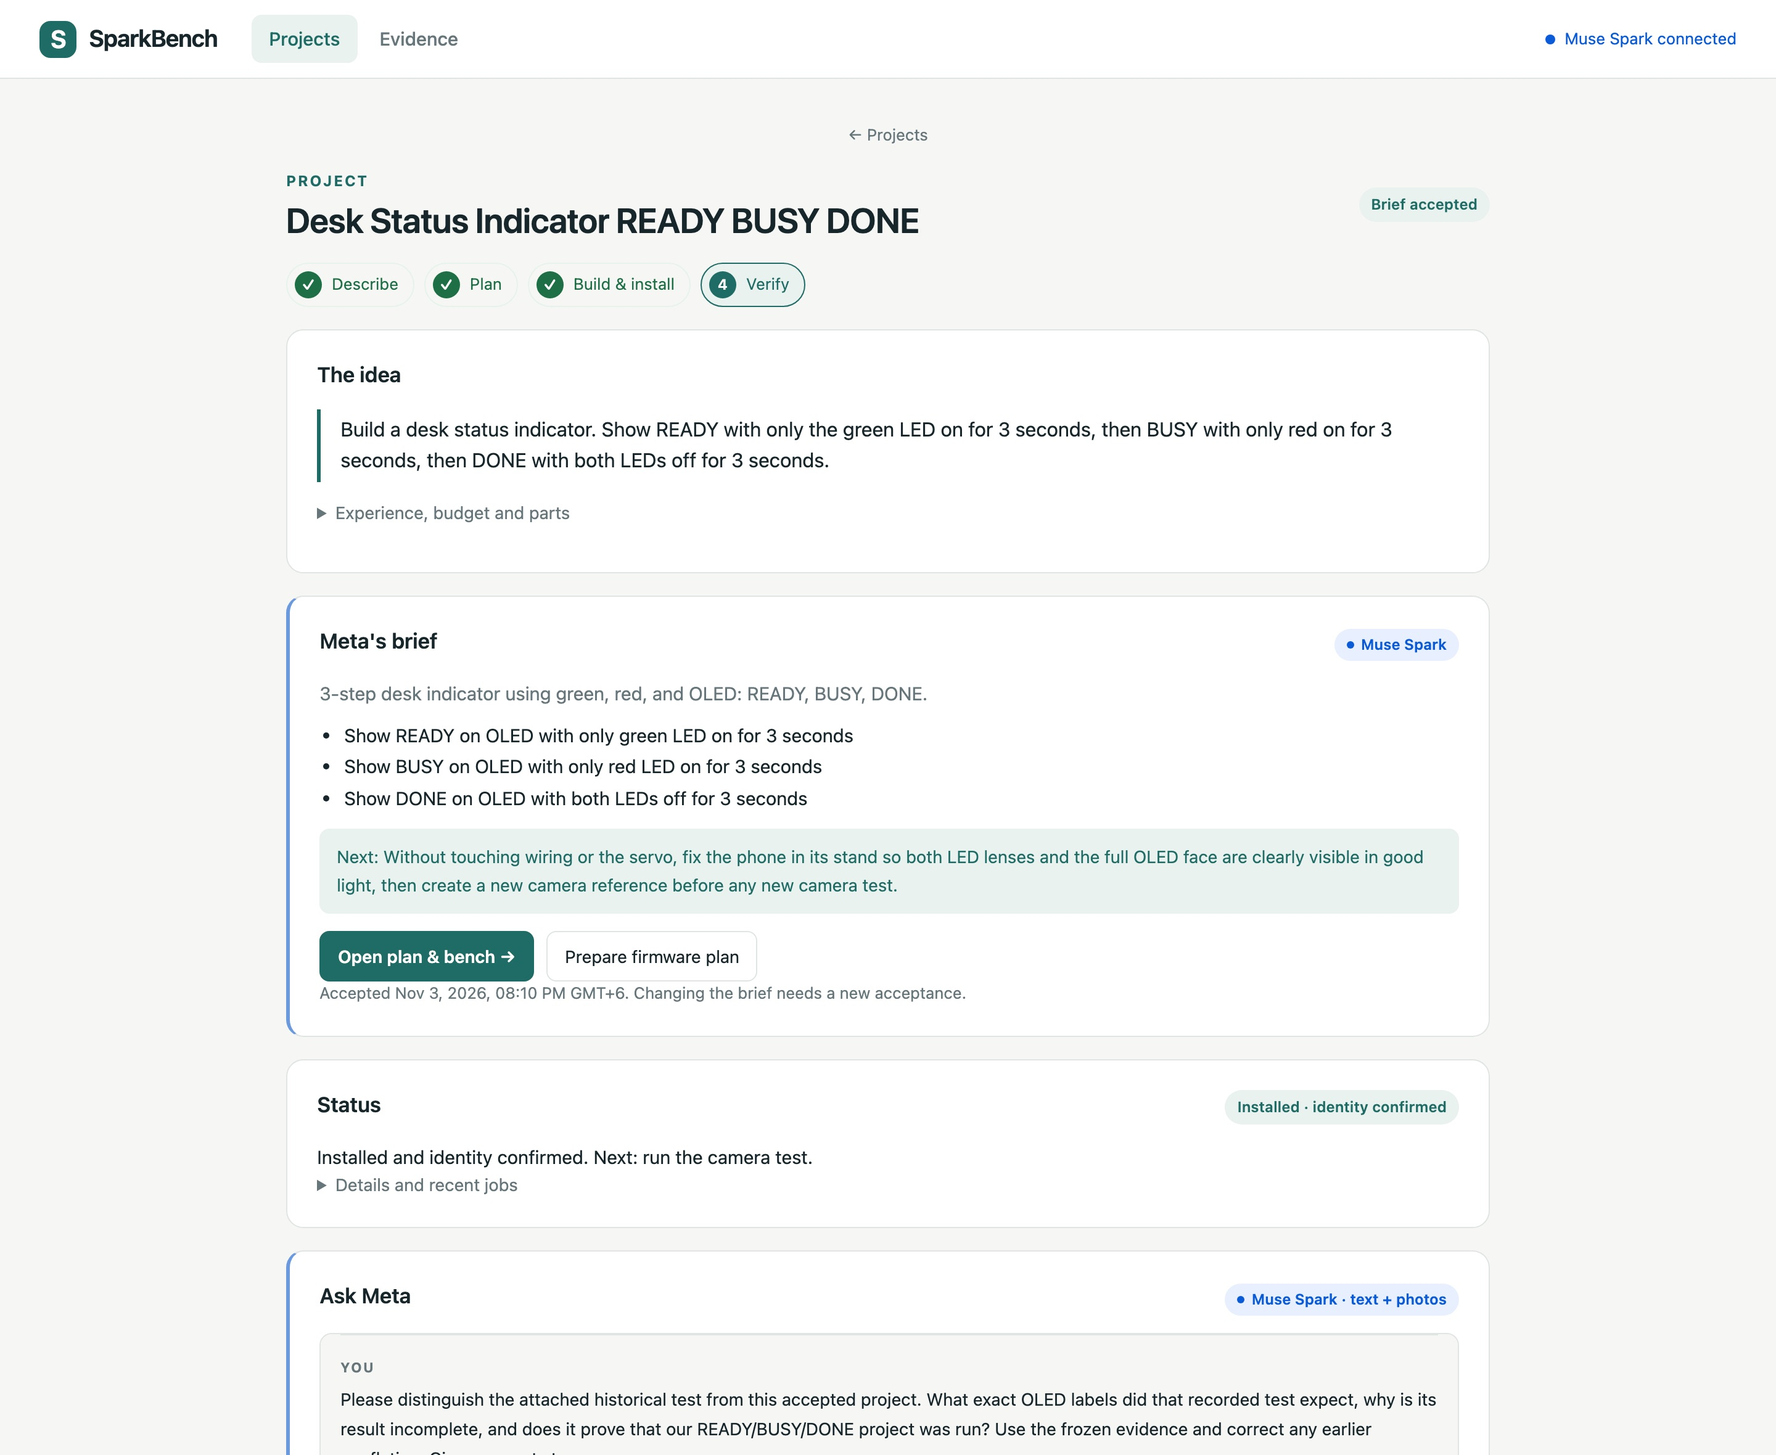
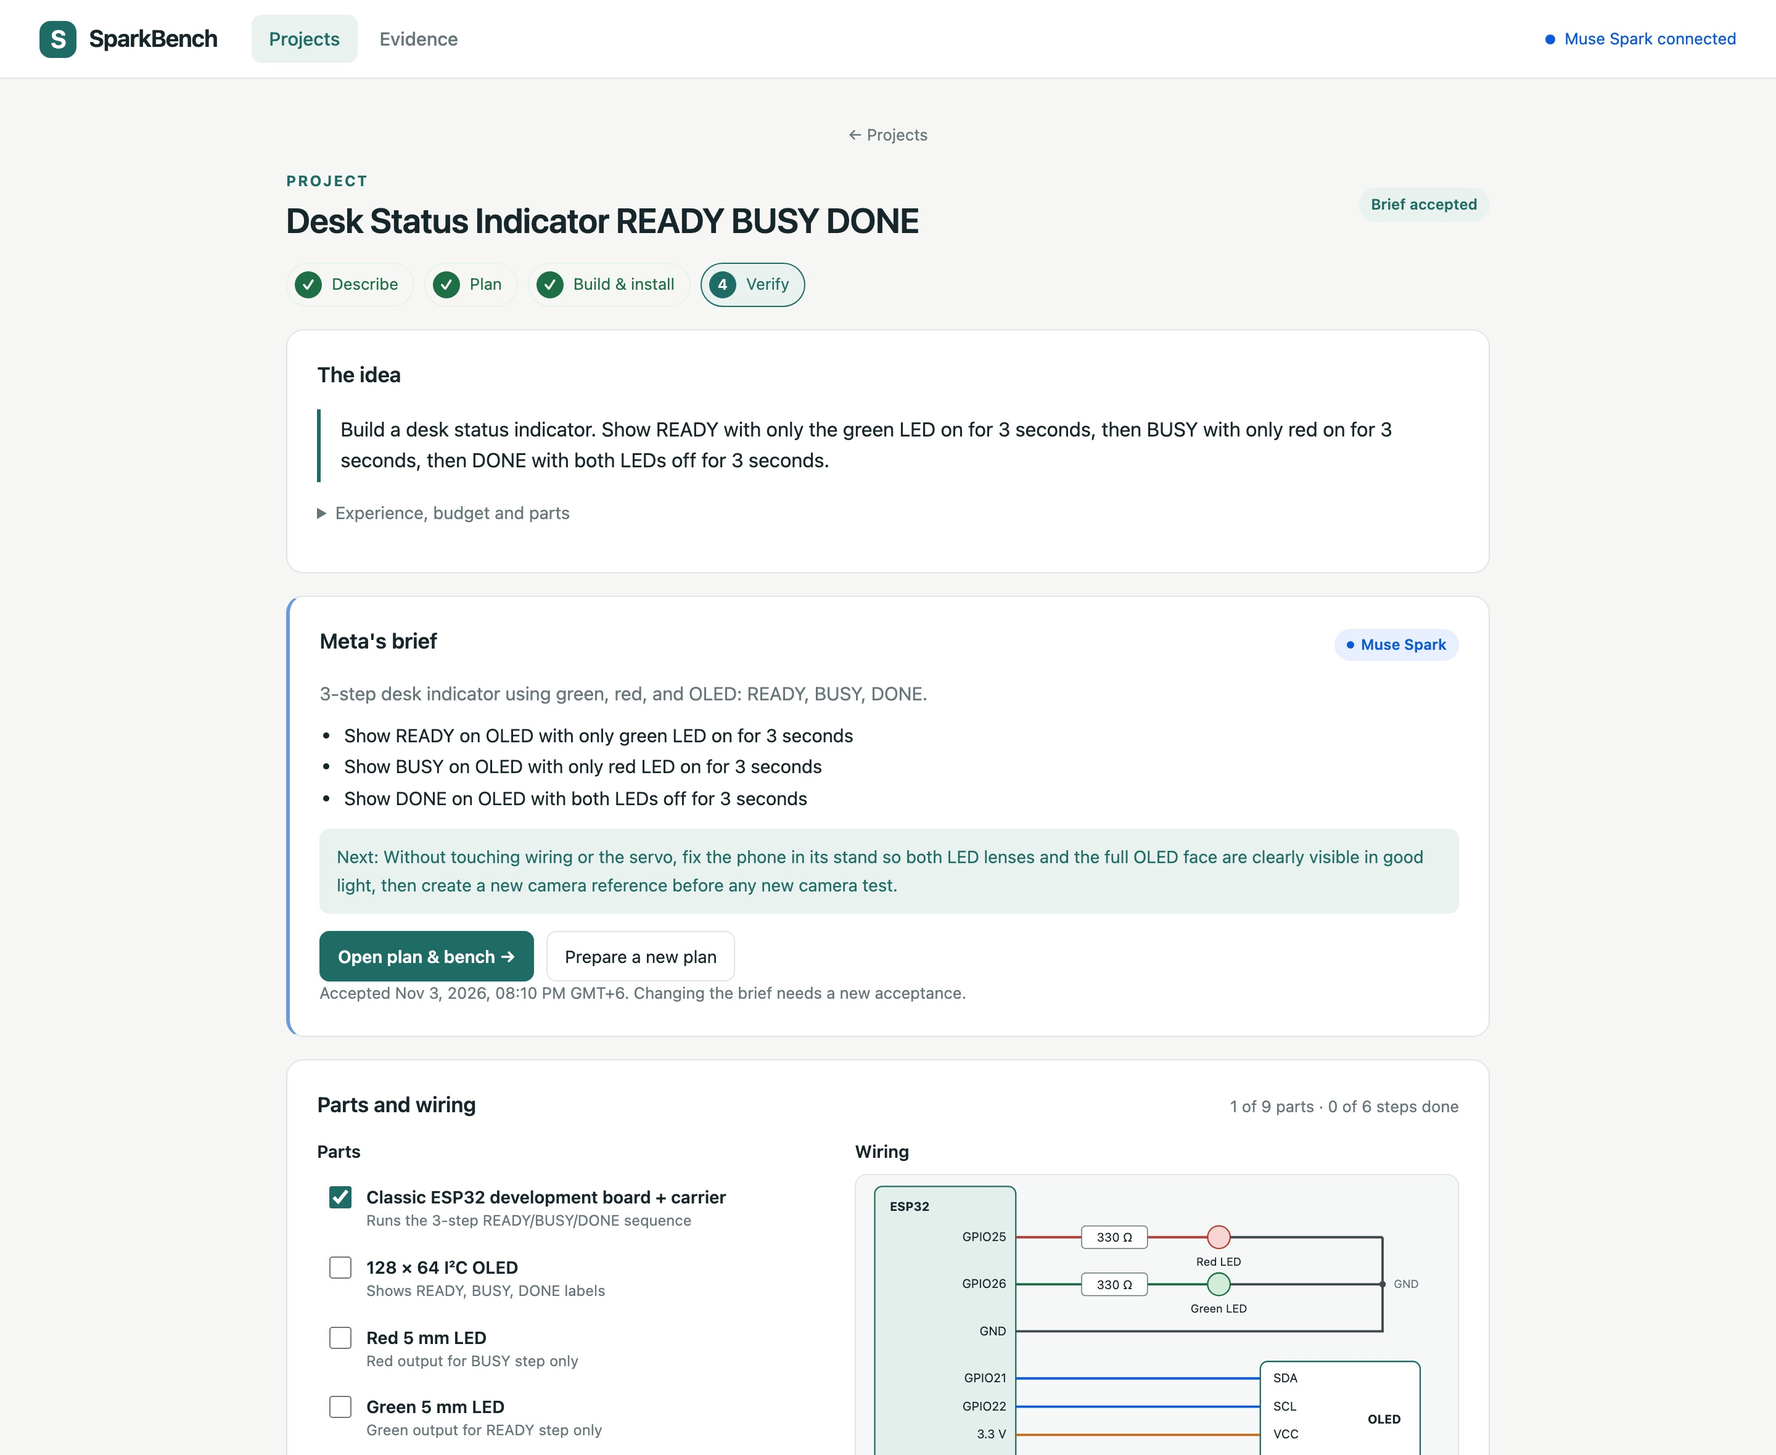
Simplify the parts and wiring checklist
The section was a collapsed card about 2,750 px tall: nine parts with
a spec line, number box and "remaining" count each, a separate Save
button, six paragraph-length steps and a nested diagram whose wires
ran through the LED labels and looped ground through the OLED.

Make it one always-visible card, now about 720 px. Parts are tick
rows (name, quantity, Meta's purpose; spec on hover); a tick records
the required quantity as owned. Assembly steps are a tick list where
finished steps fold away and only the next step shows its
instructions. Ticks save immediately through an ordered queue so fast
clicks cannot collide on the project revision; Save details, Ask Meta
and Prepare plan use the same queue. A header line shows progress.

Redraw the wiring diagram: labels clear of wires, both LED short legs
on a ground rail back to the ESP32 GND pin, colour-coded I2C, 3.3 V
and ground lines, and the polarity hint in the footnote. The card sits
after Meta's brief; the Limits dialog notes that ticks are a user
report, not a hardware check. The server and stored format are
unchanged.

Changed region(s): [[0.1562, 0.7424, 0.8125, 0.9898], [0.6875, 0.7424, 0.8125, 0.7733], [0.3438, 0.6496, 0.4062, 0.6805]]

diff --git a/src/sparkbench/dashboard/static/projects.js b/src/sparkbench/dashboard/static/projects.js
@@ -31,23 +31,28 @@ function renderProject(){
   const usage=turn.usage,meta=[typeof turn.latency_seconds==='number'?turn.latency_seconds.toFixed(1)+' s':null,typeof usage?.total_tokens==='number'?usage.total_tokens.toLocaleString()+' tokens':null].filter(Boolean).join(' · ');if(meta)entry.append(node('p',meta,'small muted'));
   $('guide-conversation').append(entry);
  }
- $('guide-parts').replaceChildren();
- for(const item of brief?.components||[]){const part=projectCatalog.find(c=>c.id===item.id);if(!part)continue;const card=node('div',undefined,'part-item');card.append(node('strong',part.name),node('p',item.quantity+(item.optional?' × · optional':' required'),'small muted'),node('p',item.purpose,'small'),node('p',part.spec,'small muted'));const needed=node('p','Remaining: '+Math.max(0,item.quantity-(project.owned[item.id]||0))+(item.optional?' (optional)':''),'small muted');const label=node('label','Have');const input=node('input');input.type='number';input.min=0;input.max=100;input.value=project.owned[item.id]||0;input.setAttribute('aria-label','Owned quantity: '+part.name);input.disabled=!!busy;input.addEventListener('input',()=>{project.owned[item.id]=Number(input.value);needed.textContent='Remaining: '+Math.max(0,item.quantity-Number(input.value))+(item.optional?' (optional)':'');});label.append(input);card.append(label,needed);$('guide-parts').append(card);}
- if(!brief?.components?.length)$('guide-parts').append(node('p','The suggested list appears after planning.','small muted'));
- $('guide-assembly').replaceChildren();
- for(const step of assemblySteps){const details=node('details',undefined,'assembly-step');const summary=node('summary');const input=node('input');input.type='checkbox';input.checked=project?.completed_steps.includes(step.id)||false;input.disabled=!project||!!busy;input.setAttribute('aria-label','I completed: '+step.title);input.addEventListener('click',e=>e.stopPropagation());input.addEventListener('change',()=>saveProject({completed_steps:input.checked?[...project.completed_steps,step.id]:project.completed_steps.filter(id=>id!==step.id)}));summary.append(input,node('span',step.title));details.append(summary,node('p',step.detail,'small muted'));$('guide-assembly').append(details);}
+ // Parts: one tick per part. A tick records the required quantity as owned and saves at once.
+ const parts=(brief?.components||[]).map(item=>({item,part:projectCatalog.find(c=>c.id===item.id)})).filter(x=>x.part),have=parts.filter(({item})=>(project.owned[item.id]||0)>=item.quantity).length;
+ $('guide-parts').replaceChildren(...(parts.length?parts.map(({item,part})=>{const li=node('li',undefined,'kit-row');const label=node('label');label.title=part.spec;const input=node('input');input.type='checkbox';input.checked=(project.owned[item.id]||0)>=item.quantity;input.disabled=!!busy;input.addEventListener('change',()=>queueSave(()=>({owned:{...project.owned,[item.id]:input.checked?item.quantity:0}})));const text=node('span');text.append(node('strong',part.name+(item.quantity>1?' × '+item.quantity:'')),node('small',item.purpose));if(item.optional)text.append(node('em','optional','tag'));label.append(input,text);li.append(label);return li;}):[node('li','Parts appear after Muse Spark plans the idea.','help')]));
+ // Steps: finished steps fold away and only the next step shows its instructions.
+ const done=new Set(project?.completed_steps||[]),next=assemblySteps.find(s=>!done.has(s.id));
+ $('guide-assembly').replaceChildren(...assemblySteps.map(step=>{const li=node('li',undefined,'kit-step'+(done.has(step.id)?' done':step===next?' current':''));const label=node('label');const input=node('input');input.type='checkbox';input.checked=done.has(step.id);input.disabled=!project||!!busy;input.addEventListener('change',()=>queueSave(()=>({completed_steps:input.checked?[...new Set([...project.completed_steps,step.id])]:project.completed_steps.filter(id=>id!==step.id)})));label.append(input,node('span',step.title));li.append(label);if(step===next)li.append(node('p',step.detail,'help'));return li;}));
+ $('kit-progress').textContent=(parts.length?have+' of '+parts.length+' parts · ':'')+done.size+' of '+assemblySteps.length+' steps done';$('build-kit-card').hidden=!project;
  $('guide-next-step').hidden=!draft;$('guide-next-step').textContent=draft?'Next: '+draft.next_step:'';
  requestAnimationFrame(()=>{const c=$('guide-conversation'),last=c.lastElementChild;c.scrollTop=last?last.offsetTop:c.scrollHeight;});
  $('project-firmware-links').replaceChildren(...(project?.firmware_links||[]).map(link=>{const b=node('button','Open saved firmware proposal','button');b.type='button';b.addEventListener('click',()=>openSavedProposal(link.proposal_id));return b;}));
 }
 function profileValues(){return {experience:$('project-experience').value,budget:$('project-budget').value,parts_notes:$('project-parts-notes').value};}
 async function saveProject(changes={}){if(!project)return;try{project=await planningPost('/api/projects/'+project.id+'/update',{revision:project.revision,profile:profileValues(),owned:project.owned,completed_steps:project.completed_steps,...changes});renderProject();return true;}catch(e){projectError(e.message);return false;}}
+let saveChain=Promise.resolve();
+// Ticks can arrive faster than saves; run every save in order against the latest revision.
+function queueSave(changes){saveChain=saveChain.then(()=>project?saveProject(changes()):undefined);return saveChain;}
 async function pollProject(id,version){try{const p=await api('/api/projects/'+id);if(version!==projectVersion)return;project=p;renderProject();if(p.busy){setTimeout(()=>pollProject(id,version),900);return;}await refreshProjects();}catch(e){if(version===projectVersion)projectError(e.message);}}
-async function sendGuide(message){if(!project||project.busy||guideCapture)return;$('project-error').hidden=true;const id=project.id;try{if(!await saveProject())return;await planningPost('/api/projects/'+id+'/ask',{message,images:projectPhotos.map(p=>({name:p.name,data:p.data})),request_id:uid(),run_id:$('guide-run').value||null});$('guide-question').value='';clearProjectPhotos();project.busy=true;renderProject();await pollProject(id,++projectVersion);}catch(e){projectError(e.message);}}
+async function sendGuide(message){if(!project||project.busy||guideCapture)return;$('project-error').hidden=true;const id=project.id;try{if(!await queueSave(()=>({})))return;await planningPost('/api/projects/'+id+'/ask',{message,images:projectPhotos.map(p=>({name:p.name,data:p.data})),request_id:uid(),run_id:$('guide-run').value||null});$('guide-question').value='';clearProjectPhotos();project.busy=true;renderProject();await pollProject(id,++projectVersion);}catch(e){projectError(e.message);}}
 $('open-guide').addEventListener('click',()=>{projectVersion++;project=null;showGuide();fillProfile();clearProjectPhotos();$('project-error').hidden=true;renderProject();});
 $('project-form').addEventListener('submit',async e=>{e.preventDefault();$('create-project').disabled=true;$('project-error').hidden=true;try{if(!plannerSession?.planning_available)throw new Error('Configure the existing Meta Contributor API locally before asking for a project.');project=await planningPost('/api/projects',{idea:$('project-idea').value,...profileValues(),request_id:uid()});fillProfile();renderProject();await refreshProjects();await sendGuide('Help me plan this idea. Clarify material missing details, suggest the required parts from the supported catalog, and give me one next step.');}catch(e){projectError(e.message);}finally{$('create-project').disabled=false;}});
-$('save-profile').addEventListener('click',()=>saveProject());$('save-inventory').addEventListener('click',()=>saveProject());$('guide-question-form').addEventListener('submit',e=>{e.preventDefault();sendGuide($('guide-question').value.trim());});
-$('project-firmware').addEventListener('click',async()=>{if(!project?.accepted)return;try{if(!await saveProject())return;const job=await planningPost('/api/projects/'+project.id+'/firmware',{accepted_sha256:project.accepted.sha256,request_id:uid()});plannerBusy=true;showPlanner();pollProposal(job.id,++pollVersion);}catch(e){projectError(e.message);}});
+$('save-profile').addEventListener('click',()=>queueSave(()=>({})));$('guide-question-form').addEventListener('submit',e=>{e.preventDefault();sendGuide($('guide-question').value.trim());});
+$('project-firmware').addEventListener('click',async()=>{if(!project?.accepted)return;try{if(!await queueSave(()=>({})))return;const job=await planningPost('/api/projects/'+project.id+'/firmware',{accepted_sha256:project.accepted.sha256,request_id:uid()});plannerBusy=true;showPlanner();pollProposal(job.id,++pollVersion);}catch(e){projectError(e.message);}});
 function clearProjectPhotos(){for(const p of projectPhotos)URL.revokeObjectURL(p.url);projectPhotos=[];$('guide-photos').value='';renderAttachments();}
 function renderAttachments(){$('guide-attachments').replaceChildren(...projectPhotos.map((p,i)=>{const figure=node('figure');const img=node('img');img.src=p.url;img.alt=p.name;const b=node('button','Remove','button');b.type='button';b.addEventListener('click',()=>{URL.revokeObjectURL(p.url);projectPhotos.splice(i,1);renderAttachments();});figure.append(img,node('figcaption',p.name,'small muted'),b);return figure;}));}
 async function attachFile(file){if(projectPhotos.length>=3)throw new Error('Attach up to three photos per question.');if(!['image/jpeg','image/png'].includes(file.type))throw new Error('Use JPEG or PNG photos; export HEIC as JPEG first.');if(file.size>20_000_000)throw new Error('Choose a photo smaller than 20 MB.');const bitmap=await createImageBitmap(file);if(bitmap.width*bitmap.height>50_000_000){bitmap.close();throw new Error('Please resize this very large image.');}const scale=Math.min(1,1600/Math.max(bitmap.width,bitmap.height));const canvas=document.createElement('canvas');canvas.width=Math.round(bitmap.width*scale);canvas.height=Math.round(bitmap.height*scale);canvas.getContext('2d').drawImage(bitmap,0,0,canvas.width,canvas.height);bitmap.close();const encoded=canvas.toDataURL('image/jpeg',.88);const blob=new Blob([Uint8Array.from(atob(encoded.split(',')[1]),c=>c.charCodeAt(0))],{type:'image/jpeg'});projectPhotos.push({name:(file.name.replace(/\.[^.]+$/,'')+'.jpg').slice(0,120),data:encoded.split(',')[1],url:URL.createObjectURL(blob)});renderAttachments();}

diff --git a/src/sparkbench/dashboard/static/index.html b/src/sparkbench/dashboard/static/index.html
@@ -105,6 +105,21 @@
     <div id="project-firmware-links" hidden></div>
   </section>
 
+  <section id="build-kit-card" class="card" hidden aria-label="Parts and wiring">
+    <div class="card-head"><h2>Parts and wiring</h2><span id="kit-progress" class="help"></span></div>
+    <div class="kit-grid">
+      <div>
+        <h3>Parts</h3>
+        <ul id="guide-parts" class="kit-list"></ul>
+      </div>
+      <div>
+        <h3>Wiring</h3>
+        <img class="wiring" src="/wiring.svg" alt="ESP32 wiring: GPIO25 through a 330-ohm resistor to the red LED and GPIO26 through another to the green LED, both LED short legs to GND; OLED SDA to GPIO21, SCL to GPIO22, VCC to 3.3 V and GND to GND.">
+        <ol id="guide-assembly" class="kit-steps"></ol>
+      </div>
+    </div>
+  </section>
+
   <section id="project-firmware-status" class="card" hidden aria-label="Project status">
     <div class="card-head"><h2>Status</h2><span id="lifecycle-state" class="pill"></span></div>
     <p id="lifecycle-next" class="copy"></p>
@@ -137,16 +152,6 @@
     </form>
   </section>
 
-  <details class="card quiet">
-    <summary>Parts and wiring checklist</summary>
-    <div id="guide-parts" class="parts"></div>
-    <button id="save-inventory" class="button" type="button">Save checklist</button>
-    <div id="guide-assembly" class="assembly"></div>
-    <details class="quiet">
-      <summary>Wiring reference</summary>
-      <img class="wiring" src="/wiring.svg" alt="Logical ESP32 wiring: GPIO25 through a 330-ohm resistor to the red LED; GPIO26 through a separate resistor to the green LED; cathodes to ground; OLED SDA21, SCL22, VCC 3.3 V and ground.">
-    </details>
-  </details>
 </section>
 
 <!-- Plan, build, verify: steps 2–4 -->
@@ -321,6 +326,7 @@
     <li>Plans are at most 8 steps of 3 seconds with short uppercase labels. Meta proposes data; trusted local code renders the firmware.</li>
     <li>A camera verdict covers sampled settled windows in the recorded view, not continuous behaviour or electrical measurements.</li>
     <li>Unknown readings stay unknown. They never count as a pass or a fail.</li>
+    <li>Parts and wiring ticks are your own report. They save automatically and do not check the hardware.</li>
     <li>Meta's advice and photo descriptions are guidance, not a pass. A photo cannot establish continuity, voltage or polarity.</li>
     <li>The servo on the rig is never driven by this runtime and its angles are unmeasured.</li>
     <li>Browsing saved work makes no model call and touches no hardware. Every Meta request and every bench action is an explicit button.</li>

diff --git a/src/sparkbench/dashboard/static/style.css b/src/sparkbench/dashboard/static/style.css
@@ -369,3 +369,22 @@ dialog img { display: block; max-width: 90vw; max-height: 80vh; object-fit: cont
 }
 
 .pill.neutral { background: var(--line); color: var(--muted); margin-top: 8px; }
+
+/* Parts and wiring: tick lists beside the diagram */
+.kit-grid { display: grid; grid-template-columns: minmax(0, 1fr) minmax(0, 1.2fr); gap: 28px; align-items: start; }
+.kit-grid h3 { margin: 0 0 8px; font-size: 14px; }
+.kit-list, .kit-steps { list-style: none; margin: 0; padding: 0; display: grid; gap: 2px; }
+.kit-row label, .kit-step label { display: flex; gap: 12px; align-items: flex-start; margin: 0; padding: 8px 10px; border-radius: 8px; color: var(--text); font-size: 14px; cursor: pointer; }
+.kit-row label:hover, .kit-step label:hover { background: var(--bg); }
+.kit-row input, .kit-step input { width: 18px; height: 18px; margin: 2px 0 0; flex-shrink: 0; accent-color: var(--accent); }
+.kit-row span { display: grid; gap: 1px; min-width: 0; }
+.kit-row strong { font-weight: 600; }
+.kit-row small { font-size: 12px; line-height: 1.4; color: var(--muted); }
+.kit-row .tag { justify-self: start; margin-top: 3px; font-style: normal; font-size: 11px; color: var(--muted); border: 1px solid var(--line); border-radius: 999px; padding: 0 7px; }
+.kit-steps { margin-top: 12px; }
+.kit-step.done label span { color: var(--muted); text-decoration: line-through; }
+.kit-step.current { background: var(--soft); border-radius: 10px; }
+.kit-step.current label span { font-weight: 600; color: var(--accent); }
+.kit-step p { margin: 0; padding: 0 12px 12px 40px; }
+.kit-grid .wiring { display: block; width: 100%; max-width: none; border-radius: 10px; border: 1px solid var(--line); }
+@media (max-width: 900px) { .kit-grid { grid-template-columns: minmax(0, 1fr); } }

diff --git a/docs/build-guide.md b/docs/build-guide.md
@@ -4,7 +4,7 @@ Open the local dashboard at **http://127.0.0.1:8765/** and choose **New project*
 
 1. Describe the idea, experience level, budget/constraints and parts already available. **Ask Meta to plan it** saves the project and makes one explicit Contributor request. Meta returns a supported draft, clarification questions or an unsupported decision.
 2. Review the intended behavior, goals and suggested parts. This release uses the known classic ESP32, two separate LEDs and OLED catalog. Specifications come from local kit records. There are no live prices or verified substitute recommendations. Servo actuation, new sensors/boards, arbitrary source code and custom timing are outside the executable contract.
-3. Enter owned quantities and select **Save checklist**. Assembly checkboxes record the operator's reported progress. Expand the known-kit wiring reference for logical connections; its positions/colors do not depict the actual carrier layout.
+3. In **Parts and wiring**, tick each part you have; a tick records the required quantity as owned. Tick each assembly step as you finish it; only the next step shows its instructions. Ticks save immediately and are your own report, not a hardware check. The wiring diagram shows logical connections, not the physical carrier layout.
 4. **Accept this brief** freezes that version's intended behavior and hash. Later advice leaves it fixed. A revised brief is shown for explicit review/acceptance; earlier accepted versions remain in history.
 5. Ask a question or add up to three JPEG/PNG progress photos. The browser resizes them to at most 1600 pixels on the long edge. Export HEIC as JPEG first. Select **Ask Meta** to send the question, selected photos and project context. Images are saved locally; previous photo descriptions remain historical and previous image bytes are not silently resent.
 6. **Use iPhone camera** enumerates devices and requires explicit Continuity Camera selection. Capture uses the existing native helper for ten seconds, opens no serial connection and makes no model request. The preview is attached locally; **Ask Meta** is the separate transmission action. Camera acquisition shares the single bench owner with build/install/test jobs.
